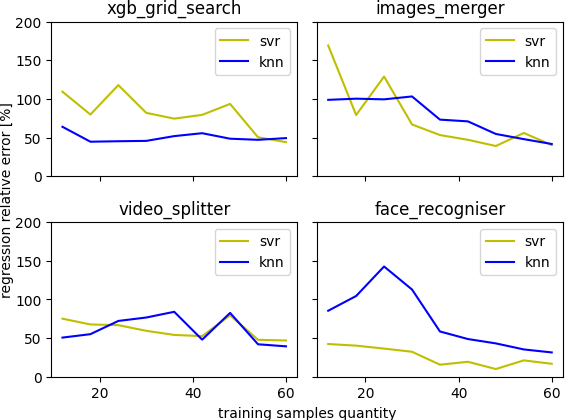
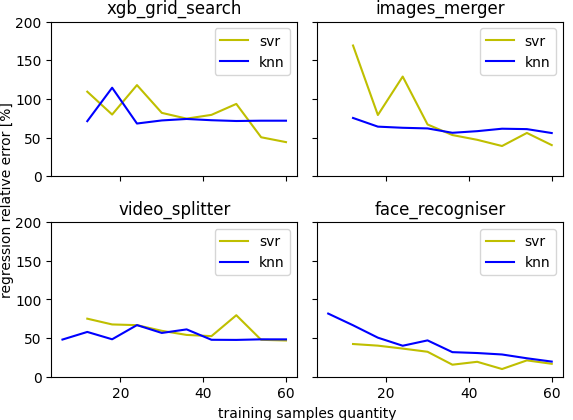
knn with scaled data

diff --git a/project/explore/pca_importance.py b/project/explore/pca_importance.py
@@ -1,8 +1,10 @@
 import sys
 from os.path import join
+from typing import Tuple
 
 import numpy as np
 import pandas as pd
+from matplotlib.axes import SubplotBase
 from sklearn.decomposition import PCA
 from matplotlib import pyplot as plt
 from sklearn.preprocessing import StandardScaler
@@ -14,6 +16,32 @@ from project.utils.app_ids import app_name_to_id, AppID, get_app_id_to_name
 from project.definitions import ROOT_DIR
 
 from project.utils.logger import logger
+
+
+def features_impact_bar(model_pca: PCA, axis: SubplotBase, col_names: Tuple[str] = None):
+    components = model_pca.components_
+    pca_importance = model_pca.explained_variance_ratio_
+
+    if col_names is not None and len(components) != len(col_names):
+        raise ValueError(
+            f'len(col_names) = {len(col_names)} should be equal to the number of components = {len(components)}')
+
+    normalized_components = []
+    previous_bars = [0. for _ in range(x.shape[1])]
+
+    for index, importance in enumerate(pca_importance):
+        components_line = abs(components[index])
+        components_line_normed = components_line / sum(components_line)
+        normalized_importance = np.array(components_line_normed * importance)
+        normalized_components.append(normalized_importance)
+
+    normalized_components_t = np.array(normalized_components).transpose()
+
+    for index, normalized_component_t in enumerate(normalized_components_t):
+        axis.bar(labels, normalized_component_t, 0.3, bottom=previous_bars,
+                 label=col_names[index] if col_names else f'f{index+1}')
+        previous_bars = previous_bars + normalized_component_t
+
 
 if __name__ == '__main__':
     logger.info('pca importance')
@@ -30,7 +58,6 @@ if __name__ == '__main__':
     app_id_to_name = get_app_id_to_name()
 
     for app_id in app_name_to_id.values():
-        print(f'app id: {app_id}')
         df, df_err = get_data_frame(results_filepath, app_id, 0, app_id_left=False, short_names=True)
         x = df.loc[:, df.columns != SHORT_NAME[DataFrameColumns.EXECUTION_TIME]]
         labels = [f'c{i + 1}' for i in range(x.shape[1])]
@@ -43,30 +70,9 @@ if __name__ == '__main__':
         x = scaler.transform(x)
         # Fit transform
         model_pca.fit_transform(x)
-        components = model_pca.components_
-        pca_importances = model_pca.explained_variance_ratio_
-        normalized_components = []
-        previous_bars = [0. for _ in range(x.shape[1])]
-
-        for index, pca_importance in enumerate(pca_importances):
-            print(index)
-            print(pca_importance)
-            components_line = abs(components[index])
-            components_line_normed = components_line/sum(components_line)
-            normalized_importance = np.array(components_line_normed*pca_importance)
-            print(normalized_importance)
-            normalized_components.append(normalized_importance)
-
-        normalized_components_t = np.array(normalized_components).transpose()
-
-        for index, normalized_component_t in enumerate(normalized_components_t):
-            print(df.columns[index])
-            print(normalized_component_t)
-            print(labels)
-            ax.bar(labels, normalized_component_t, 0.3, bottom=previous_bars,
-                   label=df.columns[index])
-            previous_bars = previous_bars + normalized_component_t
-
+        plot_features_impact(
+            model_pca, ax,
+            tuple([str(col) for col in df.columns if col != SHORT_NAME[DataFrameColumns.EXECUTION_TIME]]))
         ax.set_title(app_id_to_name[app_id])
         ax.legend()
 

diff --git a/project/models/learning_curve_multi.py b/project/models/learning_curve_multi.py
@@ -123,7 +123,7 @@ if __name__ == '__main__':
         svr_y_plot_sorted = svr_model_error[svr_index_sorted]
         app_id_to_axes[app_id].plot(svr_x_plot_sorted, svr_y_plot_sorted, label=f'svr', color='y')
 
-        knn_model_scheme = ModelDetails(app_name, 1.0, False, False)
+        knn_model_scheme = ModelDetails(app_name, 1.0, True, False)
         knn_data_points = []
         knn_model_error = []
         df, df_err = get_data_frame(results_filepath, app_id)
